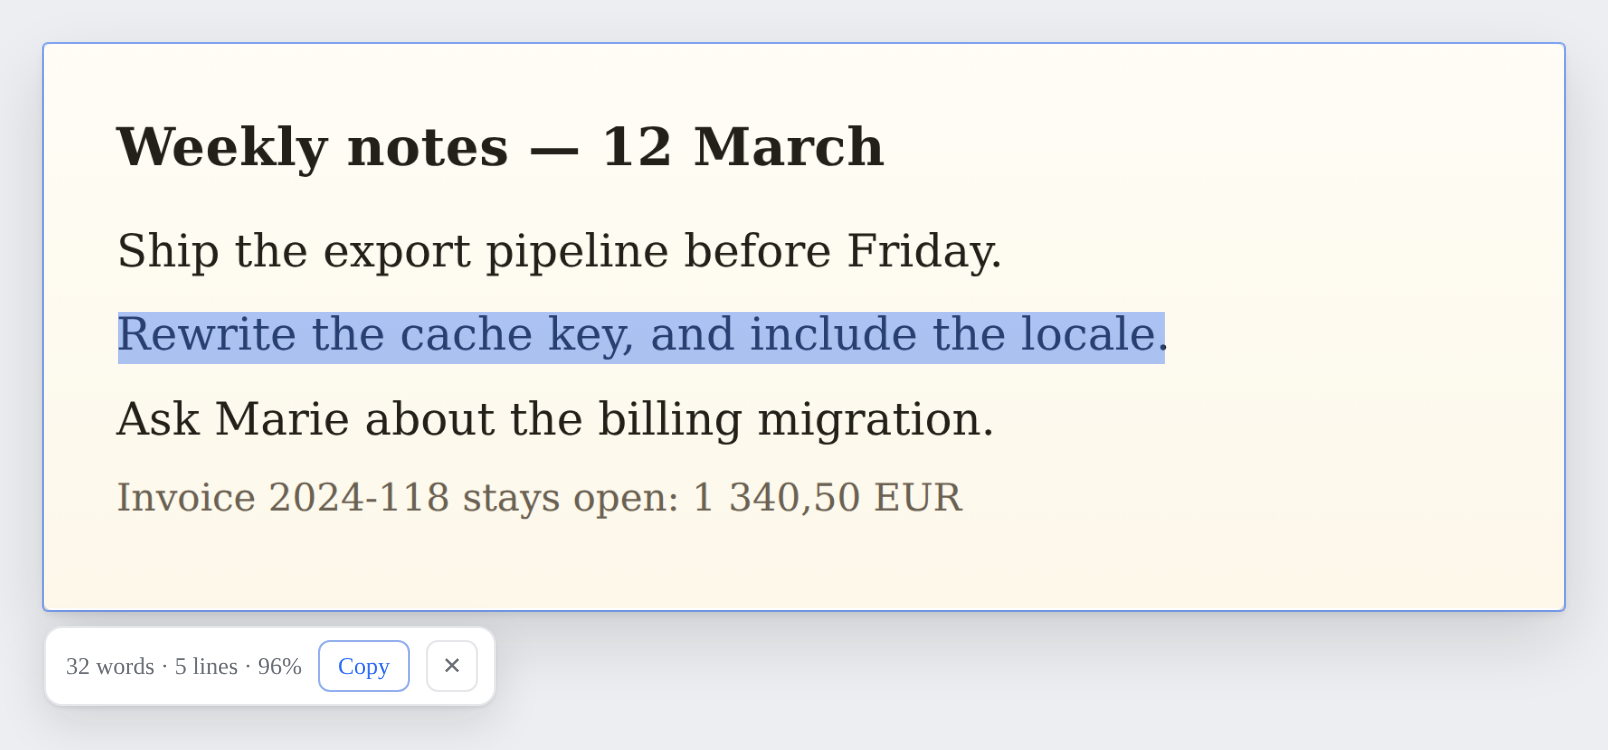
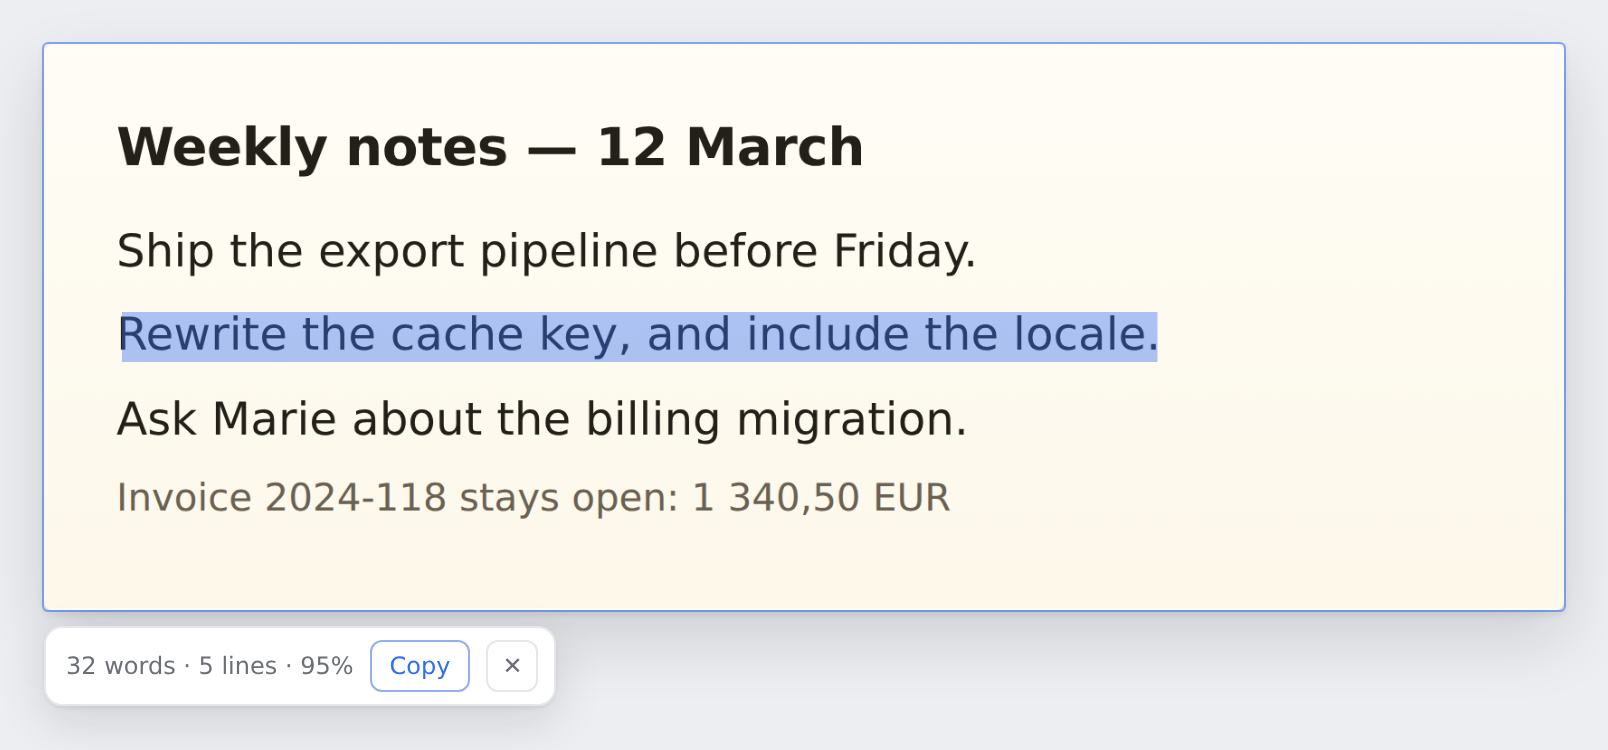
fix: give the overlay a modern font instead of the serif of the browser
The constructor set `all: initial` inline on the host of the overlay. An inline
style beats the `:host` rule, so the font declaration of overlay.css never
applied and the toolbar rendered in Times New Roman. A custom property survives
`all: initial`, which is why the colours looked right and the font did not.

overlay.css now owns the reset alone. `--tl-font` carries one modern system stack,
and the toolbar, the buttons and the text layer name it, so a reset on the host
can never reach the font again. The region selector and the settings page read the
same stack.

The browser test now reads the font of the toolbar and rejects a serif. The note
of docs/demo.png carries the same modern font.

diff --git a/src/content/overlay.css b/src/content/overlay.css
@@ -11,12 +11,11 @@
   --tl-line: #e6e7ea;
   --tl-accent: #2f6df6;
   --tl-shadow: 0 1px 2px rgb(16 18 22 / 8%), 0 8px 24px rgb(16 18 22 / 12%);
-  font-family:
-    ui-sans-serif,
-    system-ui,
-    -apple-system,
-    "Segoe UI",
-    sans-serif;
+  /* `all: initial` above resets the font, and a custom property survives it. So
+     every element of the overlay names the stack itself. */
+  --tl-font:
+    system-ui, -apple-system, "Segoe UI", Inter, Roboto, "Helvetica Neue", Arial, sans-serif;
+  font-family: var(--tl-font);
 }
 
 @media (prefers-color-scheme: dark) {
@@ -67,7 +66,7 @@
   -webkit-text-fill-color: transparent;
   text-shadow: none;
   font-weight: 400;
-  font-family: ui-sans-serif, system-ui, sans-serif;
+  font-family: var(--tl-font);
 }
 
 .line::selection {
@@ -105,6 +104,7 @@
   background: var(--tl-surface);
   box-shadow: var(--tl-shadow);
   color: var(--tl-text);
+  font-family: var(--tl-font);
   font-size: 12px;
   line-height: 1.35;
   pointer-events: auto;
@@ -146,6 +146,7 @@ button {
   background: transparent;
   color: var(--tl-text);
   font: inherit;
+  font-family: var(--tl-font);
   font-size: 12px;
   cursor: pointer;
   transition:

diff --git a/src/content/region-picker.css b/src/content/region-picker.css
@@ -2,6 +2,8 @@
 
 :host {
   all: initial;
+  --tl-font:
+    system-ui, -apple-system, "Segoe UI", Inter, Roboto, "Helvetica Neue", Arial, sans-serif;
 }
 
 .sheet {
@@ -32,10 +34,7 @@
   border-radius: 5px;
   background: rgb(18 20 25 / 88%);
   color: #f4f5f7;
-  font:
-    500 11px / 1.3 ui-sans-serif,
-    system-ui,
-    sans-serif;
+  font: 500 11px/1.3 var(--tl-font);
   font-variant-numeric: tabular-nums;
   white-space: nowrap;
   pointer-events: none;
@@ -50,10 +49,7 @@
   border-radius: 8px;
   background: rgb(18 20 25 / 88%);
   color: #f4f5f7;
-  font:
-    400 12px / 1.3 ui-sans-serif,
-    system-ui,
-    sans-serif;
+  font: 400 12px/1.3 var(--tl-font);
   white-space: nowrap;
   pointer-events: none;
 }

diff --git a/src/content/overlay.ts b/src/content/overlay.ts
@@ -53,7 +53,9 @@ export class Overlay {
 
     this.host = document.createElement("div");
     this.host.id = HOST_ID;
-    this.host.style.setProperty("all", "initial");
+    // No inline reset here. An inline style beats the `:host` rule, and it reset
+    // the font of the whole overlay to the default of the browser, which is a
+    // serif. `overlay.css` holds the reset, and it sets the font after it.
     this.root = this.host.attachShadow({ mode: "open" });
 
     const style = document.createElement("style");

diff --git a/src/options/options.css b/src/options/options.css
@@ -5,6 +5,7 @@
   --muted: #6b6f76;
   --line: #e4e6ea;
   --accent: #2f6df6;
+  --font: system-ui, -apple-system, "Segoe UI", Inter, Roboto, "Helvetica Neue", Arial, sans-serif;
   color-scheme: light dark;
 }
 
@@ -27,12 +28,9 @@ body {
   margin: 0;
   background: var(--page);
   color: var(--text);
-  font:
-    400 14px / 1.5 ui-sans-serif,
-    system-ui,
-    -apple-system,
-    "Segoe UI",
-    sans-serif;
+  font-family: var(--font);
+  font-size: 14px;
+  line-height: 1.5;
 }
 
 .page {

diff --git a/CLAUDE.md b/CLAUDE.md
@@ -41,6 +41,11 @@ an unpacked extension in a headed browser only.
   drops an underlined line: a link under a message disappeared that way. Pass every
   parameter on every call, because the engine keeps a value that a later call
   omits.
+- Set no inline style on the host of the overlay. An inline style beats the
+  `:host` rule, and `all: initial` there reset the font of the whole overlay to
+  the serif default of the browser. `overlay.css` owns the reset. A custom
+  property survives `all: initial`, so `--tl-font` carries the stack and every
+  element of the overlay names it. The browser test reads the font of the toolbar.
 - Never repaint the text layer on a scroll. A repaint replaces every span, and
   that drops the selection of the user. `Overlay.reposition` repaints on a size
   change and on new data only.
